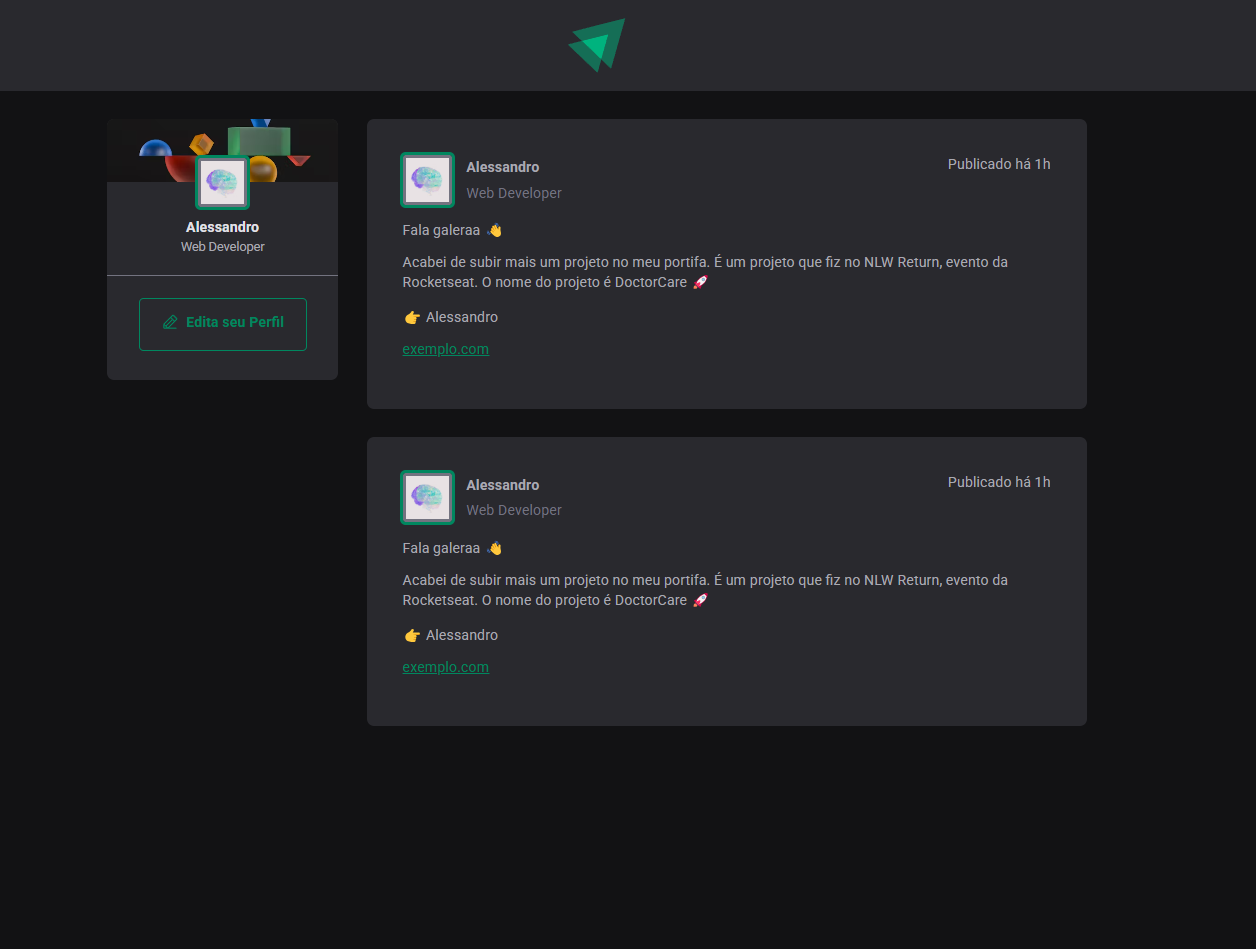
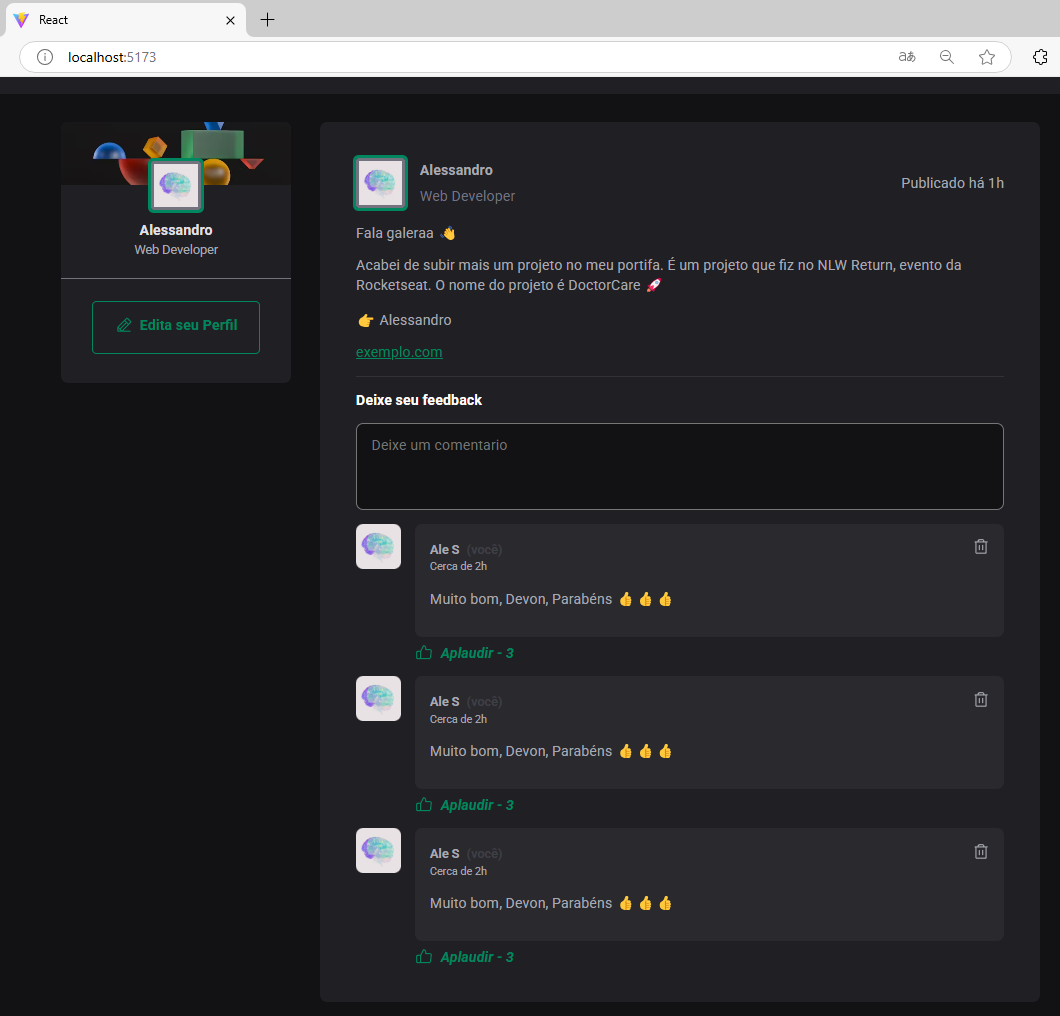
componente comentario adicionando

Changed region(s): [[0.0, 0.0, 1.0, 0.9473], [0.7472, 0.1528, 0.934, 0.1834]]

diff --git a/src/components/Post.jsx b/src/components/Post.jsx
@@ -1,13 +1,15 @@
 import styles from './Post.module.css'
 
-export function Post( props ){
+import { Comment } from './Comment'
+
+export function Post(props) {
     return <>
         <article className={styles.post}>
             <header>
                 <div className={styles.author}>
                     <img src="https://images.unsplash.com/photo-1709651669999-57741c9bf085?q=80&w=260&auto=format&fit=crop&ixlib=rb-4.0.3&ixid=M3wxMjA3fDB8MHxwaG90by1wYWdlfHx8fGVufDB8fHx8fA%3D%3D" alt="" />
                     <div className={styles.authorInfo}>
-                        <strong>Alessandro</strong>
+                        <strong>{props.nome}</strong>
                         <span>Web Developer</span>
                     </div>
                 </div>
@@ -23,6 +25,26 @@ export function Post( props ){
                 <a href='#'>exemplo.com</a>
 
             </div>
+
+            <form className={styles.comment} action="">
+                <strong>Deixe seu feedback</strong>
+
+                <textarea placeholder='Deixe um comentario'>
+
+                </textarea>
+                <footer>
+                    <button type='submit'>Publicar</button>
+                </footer>
+            </form>
+
+            <div className={styles.commentList}>
+            <Comment />
+            <Comment />
+            <Comment />
+            </div>
+           
         </article>
+        
+
     </>
 }

diff --git a/src/components/Post.module.css b/src/components/Post.module.css
@@ -11,7 +11,8 @@
 
 .post header{
     display: flex;
-    justify-content: space-between;    
+    justify-content: space-between;  
+    align-items: center;  
 }
 
 .post header img{
@@ -57,3 +58,55 @@
 .content a:hover{
     color: var(--green-300);
 }
+
+.post > .comment{
+    display: flex;
+    flex-direction: column;
+    align-items: flex-start;
+    gap: 1rem;
+    border-top: solid 1px #323238;
+    padding-top: 1rem;
+}
+
+.post .comment strong{
+    color: var(--white);
+}
+
+
+
+.post .comment button:hover{
+    background-color: var(--green-300);
+}
+.post .comment textarea{
+    width: 100%;
+    height: 6rem;
+    border-radius: 0.5rem;
+    background-color: var(--gray-900);
+    padding: 13px 16px;
+    /*border: solid  var(--green-500);*/
+    resize: none;
+}
+
+.post .comment textarea:focus{
+    color: var(--white);
+}
+
+.post .comment:focus-within footer{
+    visibility: visible;
+    max-height: none;
+}
+
+.comment footer{
+    visibility: hidden;
+    max-height: 0;
+}
+
+.post .comment button{
+    color: white;
+    background-color: var(--green-500);
+    padding: 1rem 1.5rem;
+    border-radius: 0.5rem;
+    cursor: pointer;
+}
+
+.commentList{}

diff --git a/src/components/Comment.module.css b/src/components/Comment.module.css
@@ -1,0 +1,64 @@
+.commentContainer {
+    display: flex;
+    gap: 1rem;
+}
+
+.commentContainer + .commentContainer {
+    margin-top: 1rem;
+}
+
+.commentContainer div {
+    width: 100%;
+    display: flex;
+    flex-direction: column;
+    background-color: #29292E;
+    border-radius: 0.5rem;
+    padding: 1rem;
+}
+
+.commentContainer div strong {
+    display: flex;
+    width: 100%;
+    flex-direction: row;
+    gap: 0.5rem;
+    font-size: 14px;
+}
+
+.commentContainer div header i {
+    cursor: pointer;
+}
+
+.commentContainer div strong span {
+    color: var(--gray-700);
+}
+
+.commentContainer .commentText {
+    margin-top: 1rem;
+    margin-bottom: 1rem;
+    padding: 0;
+}
+
+.commentContainer div time {
+    font-size: 12px;
+}
+
+.commentContainer article {
+    width: 100%;
+    display: flex;
+    gap: 0.5rem;
+    flex-direction: column;
+}
+
+.commentContainer article > i {
+    display: flex;
+    gap: 0.5rem;
+    color: var(--green-500);
+    font-weight: bold;
+    cursor: pointer;
+}
+
+.commentContainer img {
+    width: 50px;
+    height: 50px;
+    border-radius: 0.5rem;
+}

diff --git a/src/components/Comment.jsx b/src/components/Comment.jsx
@@ -1,0 +1,33 @@
+import { Trash, ThumbsUp } from "@phosphor-icons/react";
+
+import styles from './Comment.module.css';
+
+export function Comment(){
+    return<>
+
+<div className={styles.commentContainer}>
+    <img
+        src="https://images.unsplash.com/photo-1709651669999-57741c9bf085?q=80&w=260&auto=format&fit=crop&ixlib=rb-4.0.3&ixid=M3wxMjA3fDB8MHxwaG90by1wYWdlfHx8fGVufDB8fHx8fA%3D%3D"
+        alt="User avatar"
+    />
+    <article>
+        <div className={styles.commentContent}>
+            <header className={styles.commentHeader}>
+                <strong>Ale S <span>{' '} (você)</span></strong>
+                <i><Trash size={20} /></i>
+            </header>
+            <time className={styles.commentTime} dateTime=""> Cerca de 2h </time>
+            <div className={styles.commentText}>
+                Muito bom, Devon, Parabéns 👍👍👍
+            </div>
+        </div>
+        
+        <i className={styles.commentActions}>
+            <ThumbsUp size={20} />
+            Aplaudir - 3
+        </i>
+    </article>
+</div>
+</>
+
+}

diff --git a/src/global.css b/src/global.css
@@ -8,7 +8,7 @@
     --gray-500: #737380; /* Cinza moderado */
     --gray-600: #5c5c63; /* Cinza escuro */
     --gray-700: #3f3f46; /* Cinza muito escuro */
-    --gray-800: #29292e; /* Cinza quase preto */
+    --gray-800: #202024; /* Cinza quase preto */
     --gray-900: #121214; /* Cinza preto */
 
     --green-500: #00875f;
@@ -17,6 +17,12 @@
 
 
 }
+
+:focus{
+    outline: transparent;
+    box-shadow: 0 0 0 2px var(--green-500);
+}
+
 *{
     margin: 0;
     padding: 0;

diff --git a/src/components/Sidebar.module.css b/src/components/Sidebar.module.css
@@ -40,7 +40,7 @@
     object-fit: cover;
 }
 
-footer{
+.sidebar footer{
     border-top: 1px solid var(--gray-500);
     margin-top: 1.5rem;
     padding: 1.5rem 2rem 2rem;
@@ -49,7 +49,7 @@ footer{
     align-items: center;
 }
 
-footer a{
+.sidebar footer a{
     border: 2px solid var(--green-500);
     border-radius: 5px;
     padding: 16px 24px;
@@ -68,3 +68,4 @@ footer a:hover{
     color: white;
     transition: all 0.5s ease;
 }
+

diff --git a/src/App.jsx b/src/App.jsx
@@ -25,7 +25,7 @@ export function App() {
               bio="Lorem ipsum dolor, sit amet consectetur adipisicing elit. Neque quod cupiditate tempore, eum dignissimos voluptatum?"
           />
 
-        <Post nome="Alexandre"/>
+
         </main>
 
       </div>
